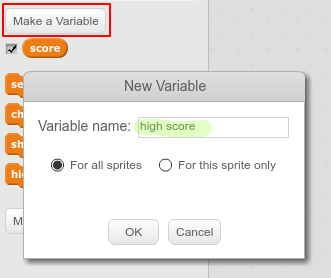
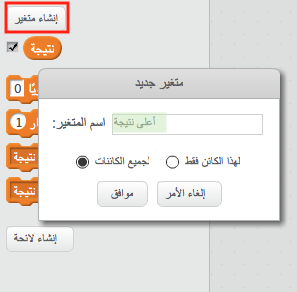
Update Arabic and add Japanese

diff --git a/ar-SA/step_1.md b/ar-SA/step_1.md
@@ -1,11 +1,11 @@
-لا شك أنه من الممتع تتبع أعلى نتيجة في اللعبة. 
+لا شك أنه من الممتع تتبع أعلى نتيجة في اللعبة.
 
-لنفترض أن لديك متغيرًا يُسمى `score`، معينًا إلى القيمة صفر في بداية كل لعبة. 
+لنفترض أن لديك متغيرًا يُسمى `نتيجة`، معينًا إلى القيمة صفر في بداية كل لعبة.
 
-أضف متغيرًا آخر يُسمى `high score`. 
+أضف متغيرًا آخر يُسمى `أعلى نتيجة`.
 
-![screenshot](images/make-high-score-variable.png)
+![لقطة الشاشة](images/make-high-score-variable.png)
 
-في نهاية كل لعبة (أو عندما تريد تغيير أعلى نتيجة)، ستحتاج إلى التحقق مما إذا كان لديك متغير `high score` جديد أم لا. 
+في نهاية اللعبة (أو عندما تريد تحديث أعلى نتيجة)، ستحتاج إلى التحقق مما إذا كان لديك `نتيجة عالية` جديدة ام لا.
 
-![screenshot](images/check-for-high-score.png)
+![لقطة الشاشة](images/check-for-high-score.png)

diff --git a/ja-JP/step_1.md b/ja-JP/step_1.md
@@ -1,0 +1,11 @@
+ゲームで高得点を記録するのは楽しいことです。
+
+たとえば、 `点数` という変数があり、各ゲーム開始時にゼロに設定されているとします。
+
+`高点数` という別の変数を追加します。
+
+![スクリーンショット](images/make-high-score-variable.png)
+
+ゲーム終了時（または高点数を更新したい場合）、新しい `高点数` があるかどうかを確認する必要があります。
+
+![スクリーンショット](images/check-for-high-score.png)
